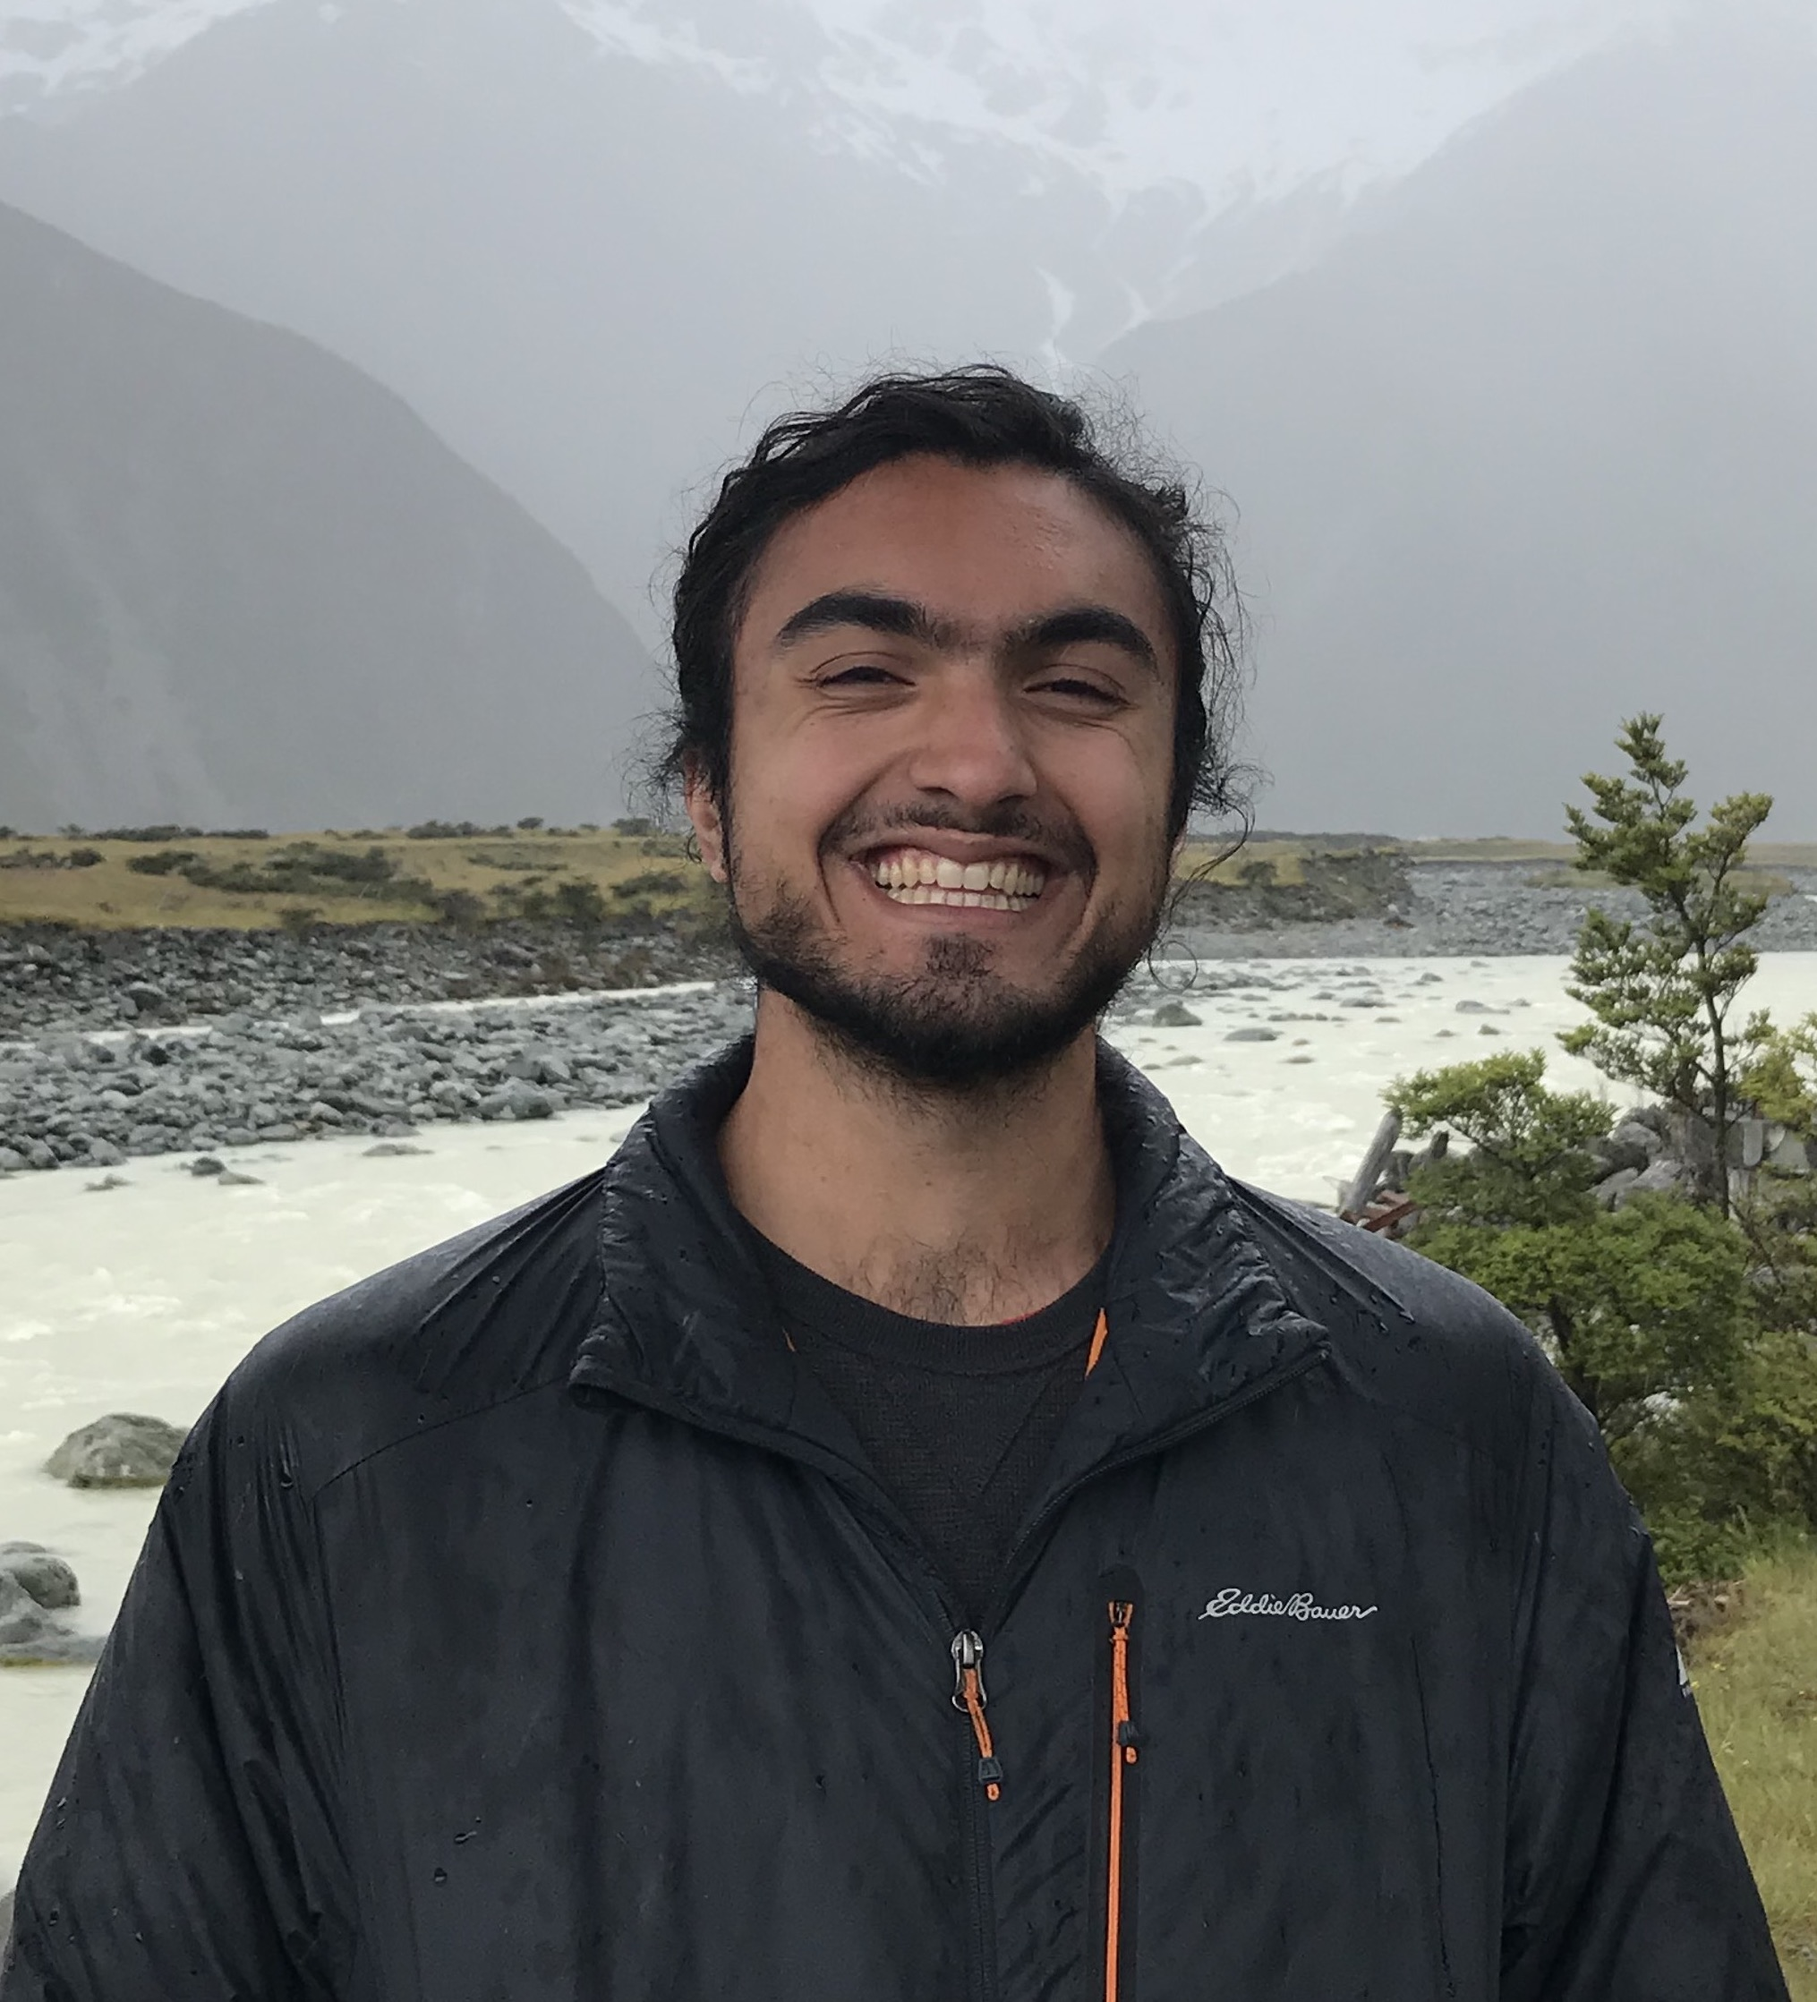
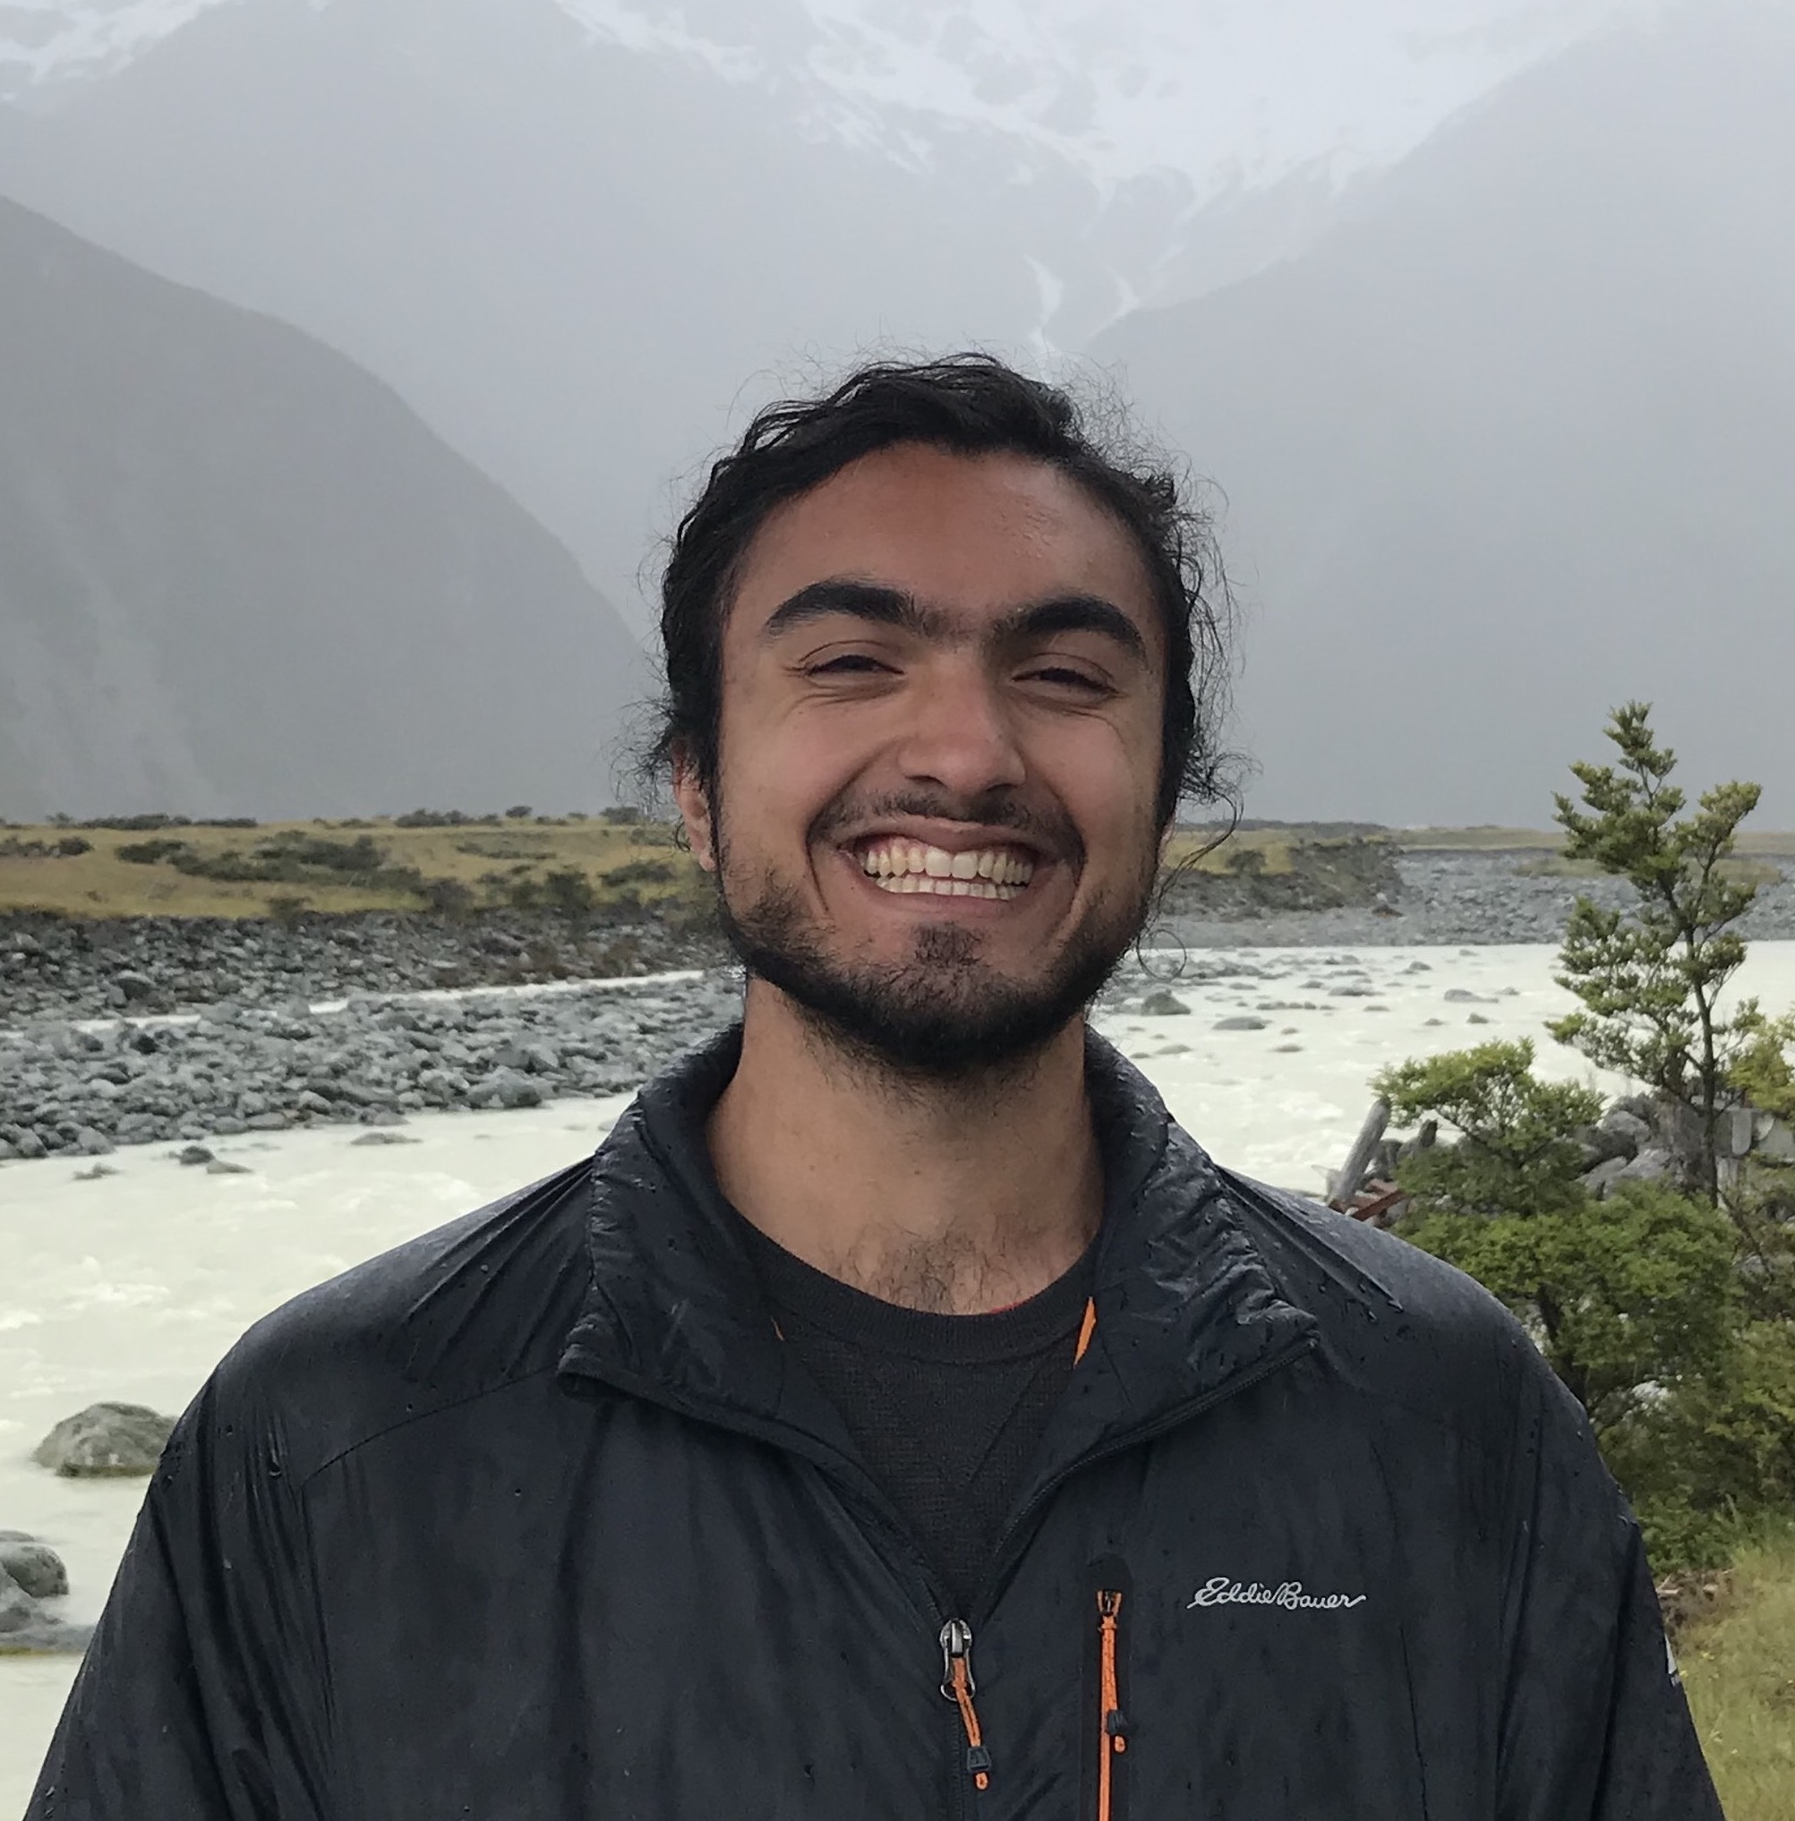
better home/about, headshot, cv

diff --git a/assets/styles.css b/assets/styles.css
@@ -9,9 +9,10 @@
 /*overall theme, inspired by clio and pmfw*/
 body {
     max-width: 650px;
-    margin: 100px auto;
+    margin: 75px auto;
     padding: 0 10px;
-    font: 18px -apple-system, BlinkMacSystemFont, "Segoe UI", "Helvetica Neue", Arial, "Noto Sans", sans-serif, "Apple Color Emoji", "Segoe UI Emoji", "Segoe UI Symbol", "Noto Color Emoji";    color: #333;
+    font: 18px -apple-system, BlinkMacSystemFont, "Segoe UI", Helvetica, Arial, sans-serif;
+    color: #333;
     line-height: 1.5em;
     background: #fafafa;
 }
@@ -36,8 +37,20 @@ a {
     color: #1498e0;
 }
 
-header > hr, footer > hr {
+footer > hr {
     border: 1px solid lightgray;
+}
+
+b {
+    color: #333;
+}
+
+#headshot {
+    max-height: 100%;
+    width: 50%;
+    padding-left: 20px;
+    padding-bottom: 10px;
+    float: right;
 }
 
 .posts {
@@ -64,12 +77,6 @@ nav > a {
 
 .front:hover {
     background-size: 4px 50px;
-}
-
-/*"back to posts" link on individual blog posts*/
-#backtrack {
-    font-size: 16px;
-    font-weight: initial;
 }
 
 /*footer flexbox*/

diff --git a/_includes/footer.html b/_includes/footer.html
@@ -4,7 +4,7 @@
         <div id="left-side">
             &copy; 2020 Kian Faizi. Built with Jekyll
         </div>
-        <div id="right-side">
+<!--         <div id="right-side">
             <a href="https://www.twitter.com/kianfaizi/">Twitter</a> <a href="https://www.github.com/kfaizi">GitHub</a> <a href="https://www.linkedin.com/in/kian-faizi/">LinkedIn</a>
-        </div>
+        </div> -->
 </footer>

diff --git a/_includes/header.html b/_includes/header.html
@@ -1,6 +1,5 @@
 <header>
     <nav>
-        <a href="/index.html" id="home">Home</a>
+        <a href="/index.html" title="home" id="home">Home</a>
     </nav>
-    <hr>
 </header>

diff --git a/about.md b/about.md
@@ -1,24 +1,31 @@
 ---
-title: About | KF
+title: About | Kian Faizi
 layout: default
 ---
 
-# About me :seedling:
+{:tbd: class="under-construction"}
 
-I'm interested in studying complex biological systems using quantitative and computational approaches. My vision is to leverage this knowledge to engineer synthetic organisms to advance the health of people and the planet. In pursuit of this goal, I plan to apply to PhD programs this fall.
+# About me
+![headshot](/assets/headshot_web.jpg){: title="aoraki" id="headshot"}
 
-I'm a UCSD undergraduate and a lab technician in Professor [Wolfgang Busch’s group at the Salk Institute]. We study the genetics underlying root growth and root-environment interactions in plants, with a focus on the model organism _Arabidopsis thaliana_. A major goal of this research is facilitating crop engineering efforts to [fight climate change].
+My name is Kian Faizi, and this is my personal website. It's part blog, [part CV], and part brain dump. Thanks for stopping by.
 
-My work investigates the root system's response to mild deficiencies of essential nutrients. To aid root phenotyping tasks, I developed an [image analysis tool]. I'm also working on the network-based [identification of  functional homologs] of genes driving root depth, based on coexpression analysis of single-cell RNA-seq data.
+I'm a student interested in studying complex biological systems using quantitative and computational approaches. I want to leverage this knowledge to engineer synthetic organisms to advance the health of people and the planet. In pursuit of this goal, I plan to apply to PhD programs this fall.
 
-Previously, I volunteered in the lab of Dr. Patrick Hsu, where I helped develop tools for RNA editing using CRISPR-Cas13d. I wrote a [pipeline for discovering new orthologs] of Cas13d, and helped conduct a [pooled transcriptome-wide screen] to investigate guide RNA efficiency.
+Currently, I'm a lab technician in [Professor Wolfgang Busch’s group] at the Salk Institute. We study the genetics underlying root growth and root-environment interactions in plants, with a focus on the model organism _Arabidopsis thaliana_. A major goal of this research is facilitating crop engineering efforts to [fight climate change]. Previously, I volunteered in the [lab of Dr. Patrick Hsu], where I helped develop tools for RNA editing using CRISPR-Cas13d.
 
 Outside the lab, I enjoy hiking and writing bad poetry. I also have a keen interest in issues of environmental conservation, technology/data ethics, and science communication.
 
-<!-- tailor links to individual projects, once added -->
-[Wolfgang Busch’s group at the Salk Institute]: https://busch.salk.edu/ "Busch Lab homepage"
+## Contact
+
+Feel free to [view my CV]. You can reach me at <b>kfaizi@ucsd.edu</b>
+
+I also maintain profiles on [Twitter], [GitHub], and [LinkedIn].
+
+[part CV]: /cv.html "CV"
+[Professor Wolfgang Busch’s group]: https://busch.salk.edu/ "Busch Lab homepage"
 [fight climate change]: https://www.salk.edu/science/power-of-plants/ "Harnessing Plants Initiative"
-[image analysis tool]: /projects.html "projects"
-[identification of  functional homologs]: /projects.html "projects"
-[pipeline for discovering new orthologs]: /projects.html "projects"
-[pooled transcriptome-wide screen]: /projects.html "projects"
+[lab of Dr. Patrick Hsu]: http://patrickhsulab.org/ "Hsu Lab homepage"
+[Twitter]: https://www.twitter.com/kianfaizi/ "@kianfaizi"
+[GitHub]: https://www.github.com/kfaizi/ "@kfaizi"
+[LinkedIn]: https://www.linkedin.com/in/kian-faizi/ "Kian Faizi"

diff --git a/cv.md b/cv.md
@@ -1,0 +1,53 @@
+---
+title: CV | Kian Faizi
+layout: default
+---
+
+# Curriculum Vitae
+Last updated: April 24, 2020
+
+### Education
+- **B.S. Molecular Biology**, GPA: 3.72, [University of California, San Diego] (anticipated: 06/21)
+- **I.B. Diploma**, [International School of Kuala Lumpur], Malaysia (graduated: 06/17)
+
+### Experience
+- **Laboratory Technician** under [Dr. Wolfgang Busch], Salk Institute for Biological Studies (11/19-present)
+- **Volunteer Research Assistant** under [Dr. Patrick Hsu], Salk Institute for Biological Studies (11/18-10/19)
+
+### Skills
+- **Laboratory:** cell/tissue culture (mammalian, plant, bacterial); molecular cloning; CRISPR; flow cytometry; PCR; transformation; transfection; lentiviral transduction; DNA extraction
+- **Computational:** languages (Python, bash, R, HTML/CSS); organizational (Git, LaTeX); libraries (BioPython, pandas, BLAST, PIL, Tkinter); tools (SnapGene, Geneious)
+
+### Posters & Presentations
+- **_Mining Genomes for RNA-Targeting CRISPR Effectors_.** Talk. UCSD Summer Research Conference (08/19)
+- **_Metagenomic Discovery of Type VI-D CRISPR Effectors for Transcriptome Engineering_.** Poster. UCSD Biology Student Research Showcase (06/19)
+
+### Honors & Awards
+- **[Halıcıoğlu Data Science Institute Scholarship]**, UCSD ($2,000 - 12/19)
+    + Project: _Single-cell transcriptomics and web mining for rapid reverse genetics in plants_, proposed under Dr. Busch
+- **[Eureka! Research Scholarship for Biological Sciences]**, UCSD ($5,000 - 06/19)
+    + Project: _Discovery and Development of Type VI-D CRISPR Effectors for Transcriptome Engineering Applications_, proposed under Dr. Hsu
+- **Provost Honors**, UCSD (Fall '17, '18; Winter '18, '19, '20; Spring '18)
+- **[First Place Solo]**, Sunway National Poetry Slam, Malaysia (04/16)
+
+### Clubs & Organizations
+- **Member**, Undergraduate Bioinformatics Club, UCSD (09/17-present)
+- **Member**, Sierra Club, San Diego Chapter (09/17-present)
+
+### Selected Coursework
+- _Mathematical Statistics_, taught by Dr. David Quarfoot (in progress)
+- _Genome, Epigenome, and Transcriptome Editing_, taught by Dr. Alexis Komor (Winter 2020)
+- _Regulation of Eukaryotic Gene Expression_, taught by Dr. James Kadonaga (Winter 2020)
+- _Advanced Seminar in Quantitative Biology_, taught by Dr. Jeff Hasty (Winter 2020)
+- _Stochastic Processes_, taught by Dr. Yuriy Nemish (Winter 2020)
+- _Genetic Inquiry_, taught by Dr. Stanley Lo (Winter 2020)
+- _Big Data in Computational Molecular Biology_, taught by Dr. Terry Gaasterland (Spring 2019)
+- _Physics of the Cell_, taught by Dr. Elena Koslover (Spring 2019)
+
+[University of California, San Diego]: https://www.ucsd.edu/ "UCSD homepage"
+[International School of Kuala Lumpur]: https://www.iskl.edu.my/ "ISKL homepage"
+[Dr. Wolfgang Busch]: https://busch.salk.edu/ "Busch Lab homepage"
+[Dr. Patrick Hsu]: http://patrickhsulab.org/ "Hsu Lab homepage"
+[Halıcıoğlu Data Science Institute Scholarship]: https://hdsi.ucsd.edu/hdsi-awards-27-scholarships-to-undergraduate-researchers/ "HDSI 2019 awardees"
+[Eureka! Research Scholarship for Biological Sciences]: https://biology.ucsd.edu/giving/eureka/index.html/ "Eureka 2019 awardees"
+[First Place Solo]: https://www.youtube.com/watch?v=s_ZLPm9Qhoc "Waking Up to the Newspaper"

diff --git a/index.md b/index.md
@@ -1,22 +1,26 @@
 ---
-title: KF
+title: Kian Faizi
 layout: home
 ---
 {:fancylink: class="front"}
 {:tbd: class="under-construction"}
 
-# Hi there! I'm Kian. :wave:
+# Hi there! I'm Kian.
 
 I’m a third year undergraduate at UC San Diego studying molecular biology, with a minor in math (emphasis on statistics). I intend to apply to PhD programs during the 2020-21 cycle. More [about me]{: fancylink}.
 
-**Research interests:** quantitative systems biology, bioinformatics, synthetic biology, gene editing. Sometimes I [blog]{: tbd} about these ideas.
+**Research interests:** quantitative systems biology, bioinformatics, synthetic biology, genome editing. I currently work in a plant genetics lab, where we're interested in how roots sense and respond to environmental stimuli. For more on my work so far, see [my projects]{: tbd}.
 
-I currently work in a plant biology lab, where we're interested in how roots sense and respond to environmental stimuli. For more on my work so far, see [my projects]{: tbd}.
+Part of this site is a blog — mostly on science, programming, and academia. Check out my most recent posts below, or view the archive of [all my writing]{: fancylink}:
 
-While you’re here, feel free to [view my CV]{: tbd}. You can also [get in touch]{: tbd} — I'm always interested in chatting about cool science!
+<ul>
+  {% for post in site.posts limit:5 %}
+    <li>
+      <a href="{{ post.url }}" title="{{ post.title | handleize }}">{{ post.title }} ({{ post.date | date: "%B %-d" }})</a>
+    </li>
+  {% endfor %}
+</ul>
 
 [about me]: /about.html "about"
-[blog]: /blog.html "blog"
+[all my writing]: /blog.html "blog"
 [my projects]: /projects.html "projects"
-[view my CV]: /cv.html "CV"
-[get in touch]: /contact.html "contact"

diff --git a/blog.md b/blog.md
@@ -1,0 +1,14 @@
+---
+title: Blog | Kian Faizi
+layout: default
+---
+
+<h1> Posts </h1>
+
+<ul class="posts">
+  {% for post in site.posts %}
+    <li>
+        <a href="{{ post.url }}" title="{{ post.title | handleize }}">{{ post.title }} ({{ post.date | date: "%B %-d"}})</a>
+    </li>
+  {% endfor %}
+</ul>

diff --git a/_layouts/post.md b/_layouts/post.md
@@ -1,0 +1,11 @@
+---
+layout: default
+---
+
+<h1>{{ page.title }}</h1>
+
+<p>Published {{ page.date | date:"%B %-d, %Y" }}. <a href="/blog.html" title="blog">Back to posts</a></p>
+
+{{ content }}
+
+

diff --git a/projects.md b/projects.md
@@ -1,0 +1,8 @@
+---
+title: Projects | Kian Faizi
+layout: default
+---
+
+# My projects
+
+under construction
